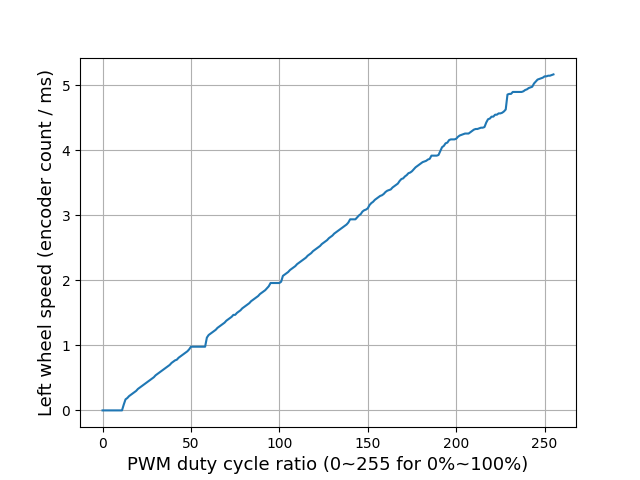
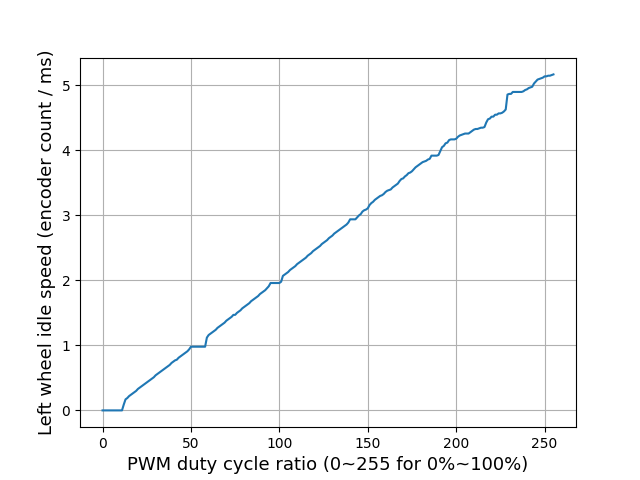
_

Changed region(s): [[0.0625, 0.0938, 0.0938, 0.9062]]

diff --git a/Report/ReportCodes/WheelResponse/result.py b/Report/ReportCodes/WheelResponse/result.py
@@ -262,6 +262,6 @@ fig = plt.figure
 plt.plot(range(256),speed)
 plt.xlim = ([-5,230])
 plt.xlabel("PWM duty cycle ratio (0~255 for 0%~100%)",fontsize = 13)
-plt.ylabel("Left wheel speed (encoder count / ms)",fontsize=13)
+plt.ylabel("Left wheel idle speed (encoder count / ms)",fontsize=13)
 plt.grid()
 plt.show()
